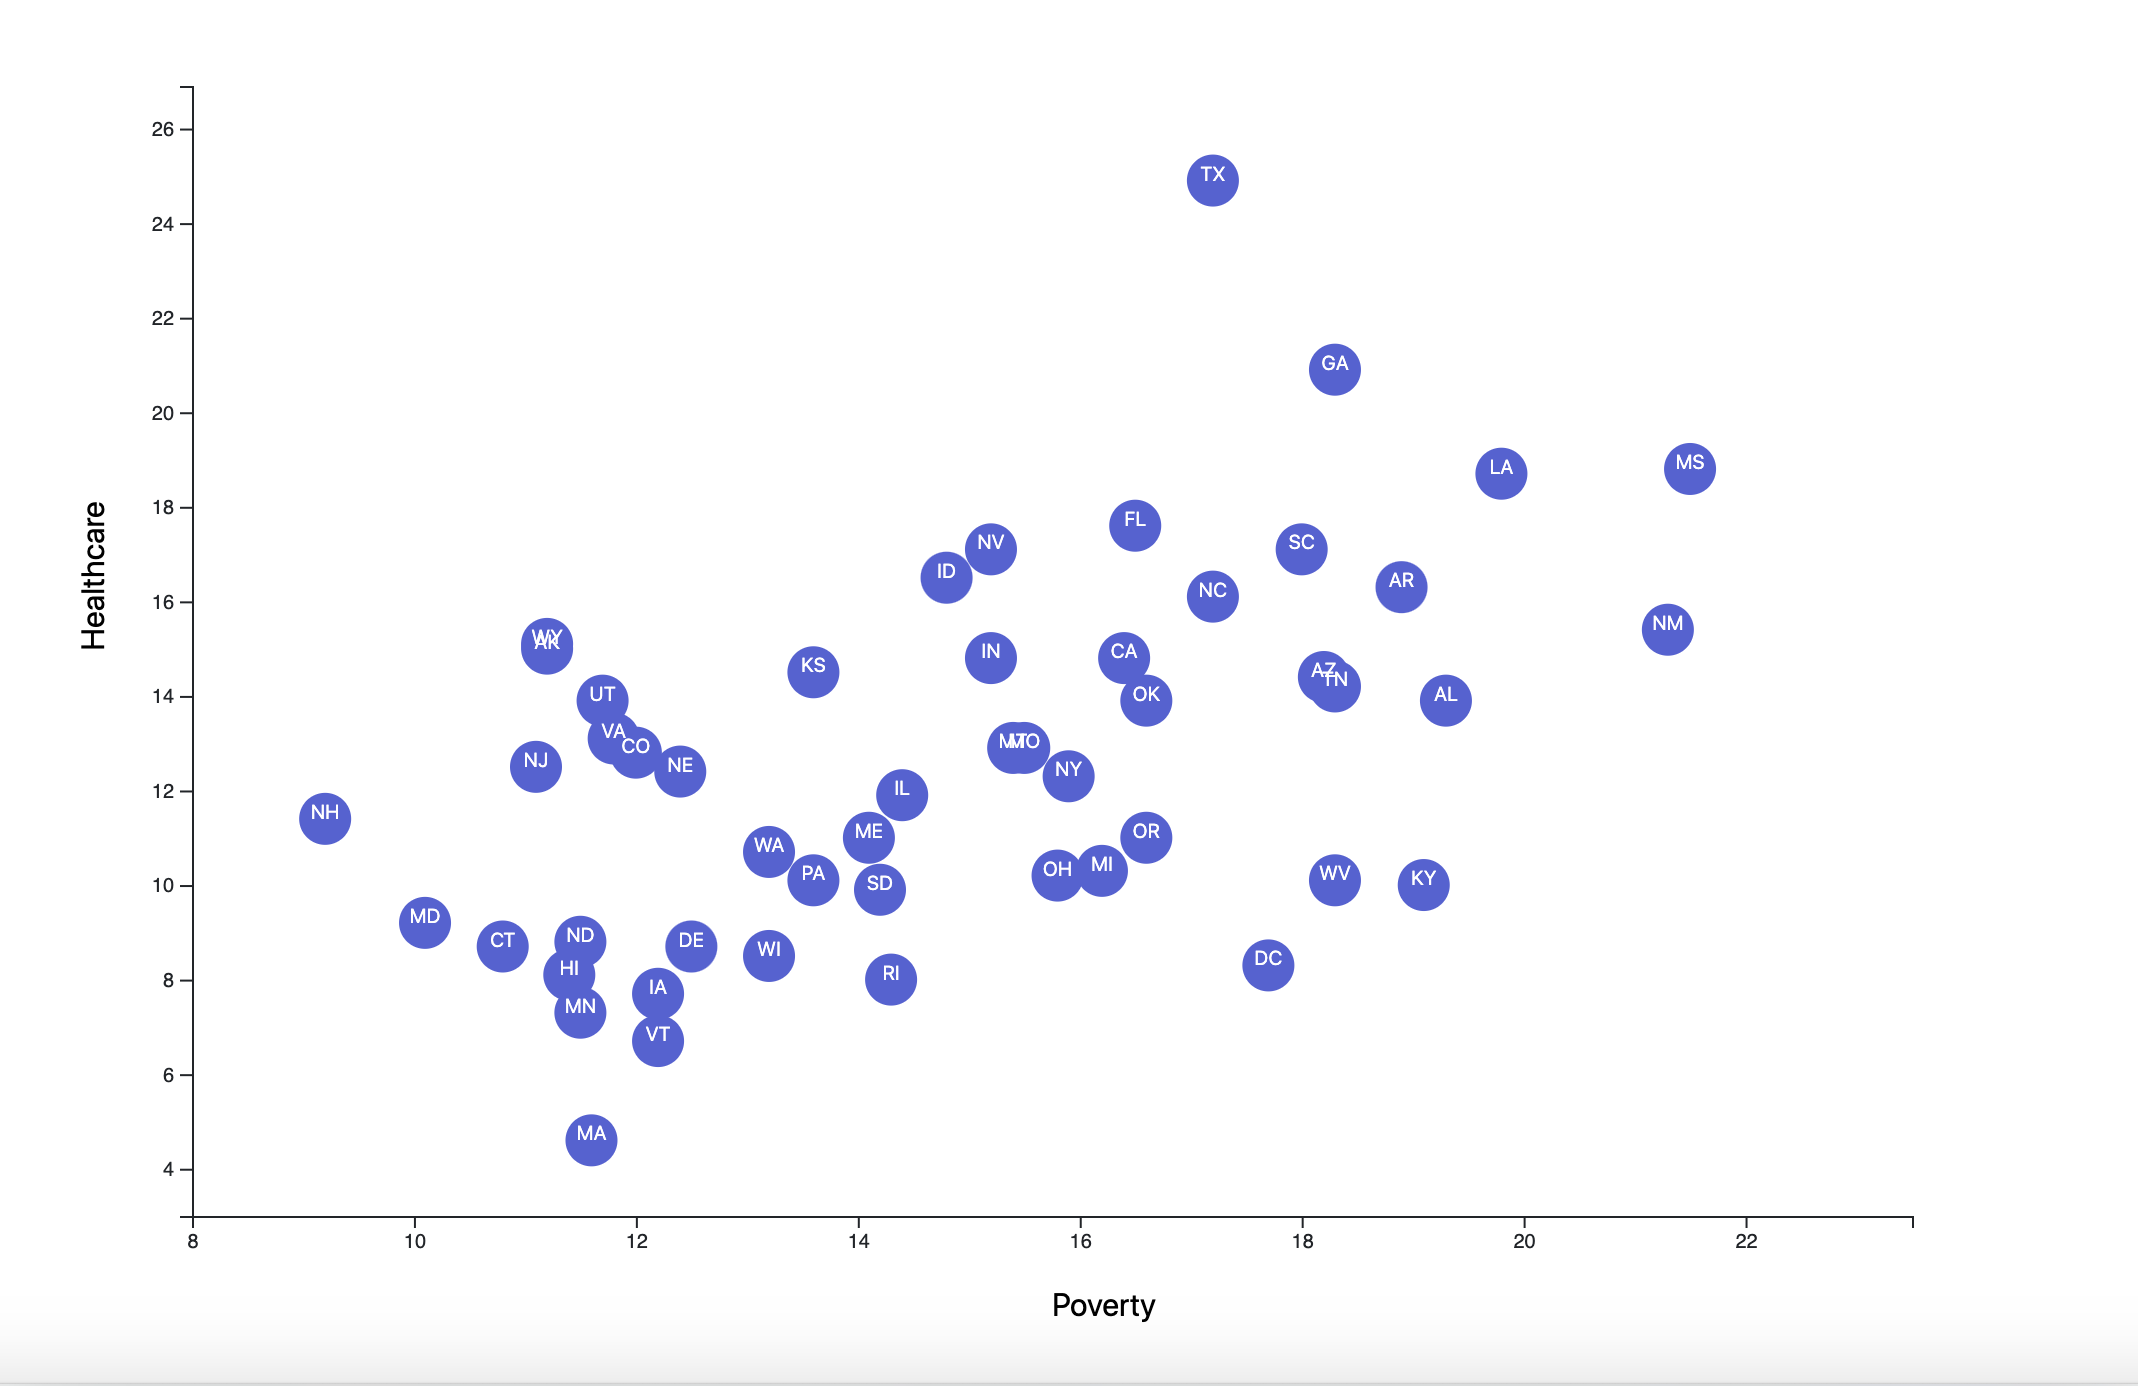
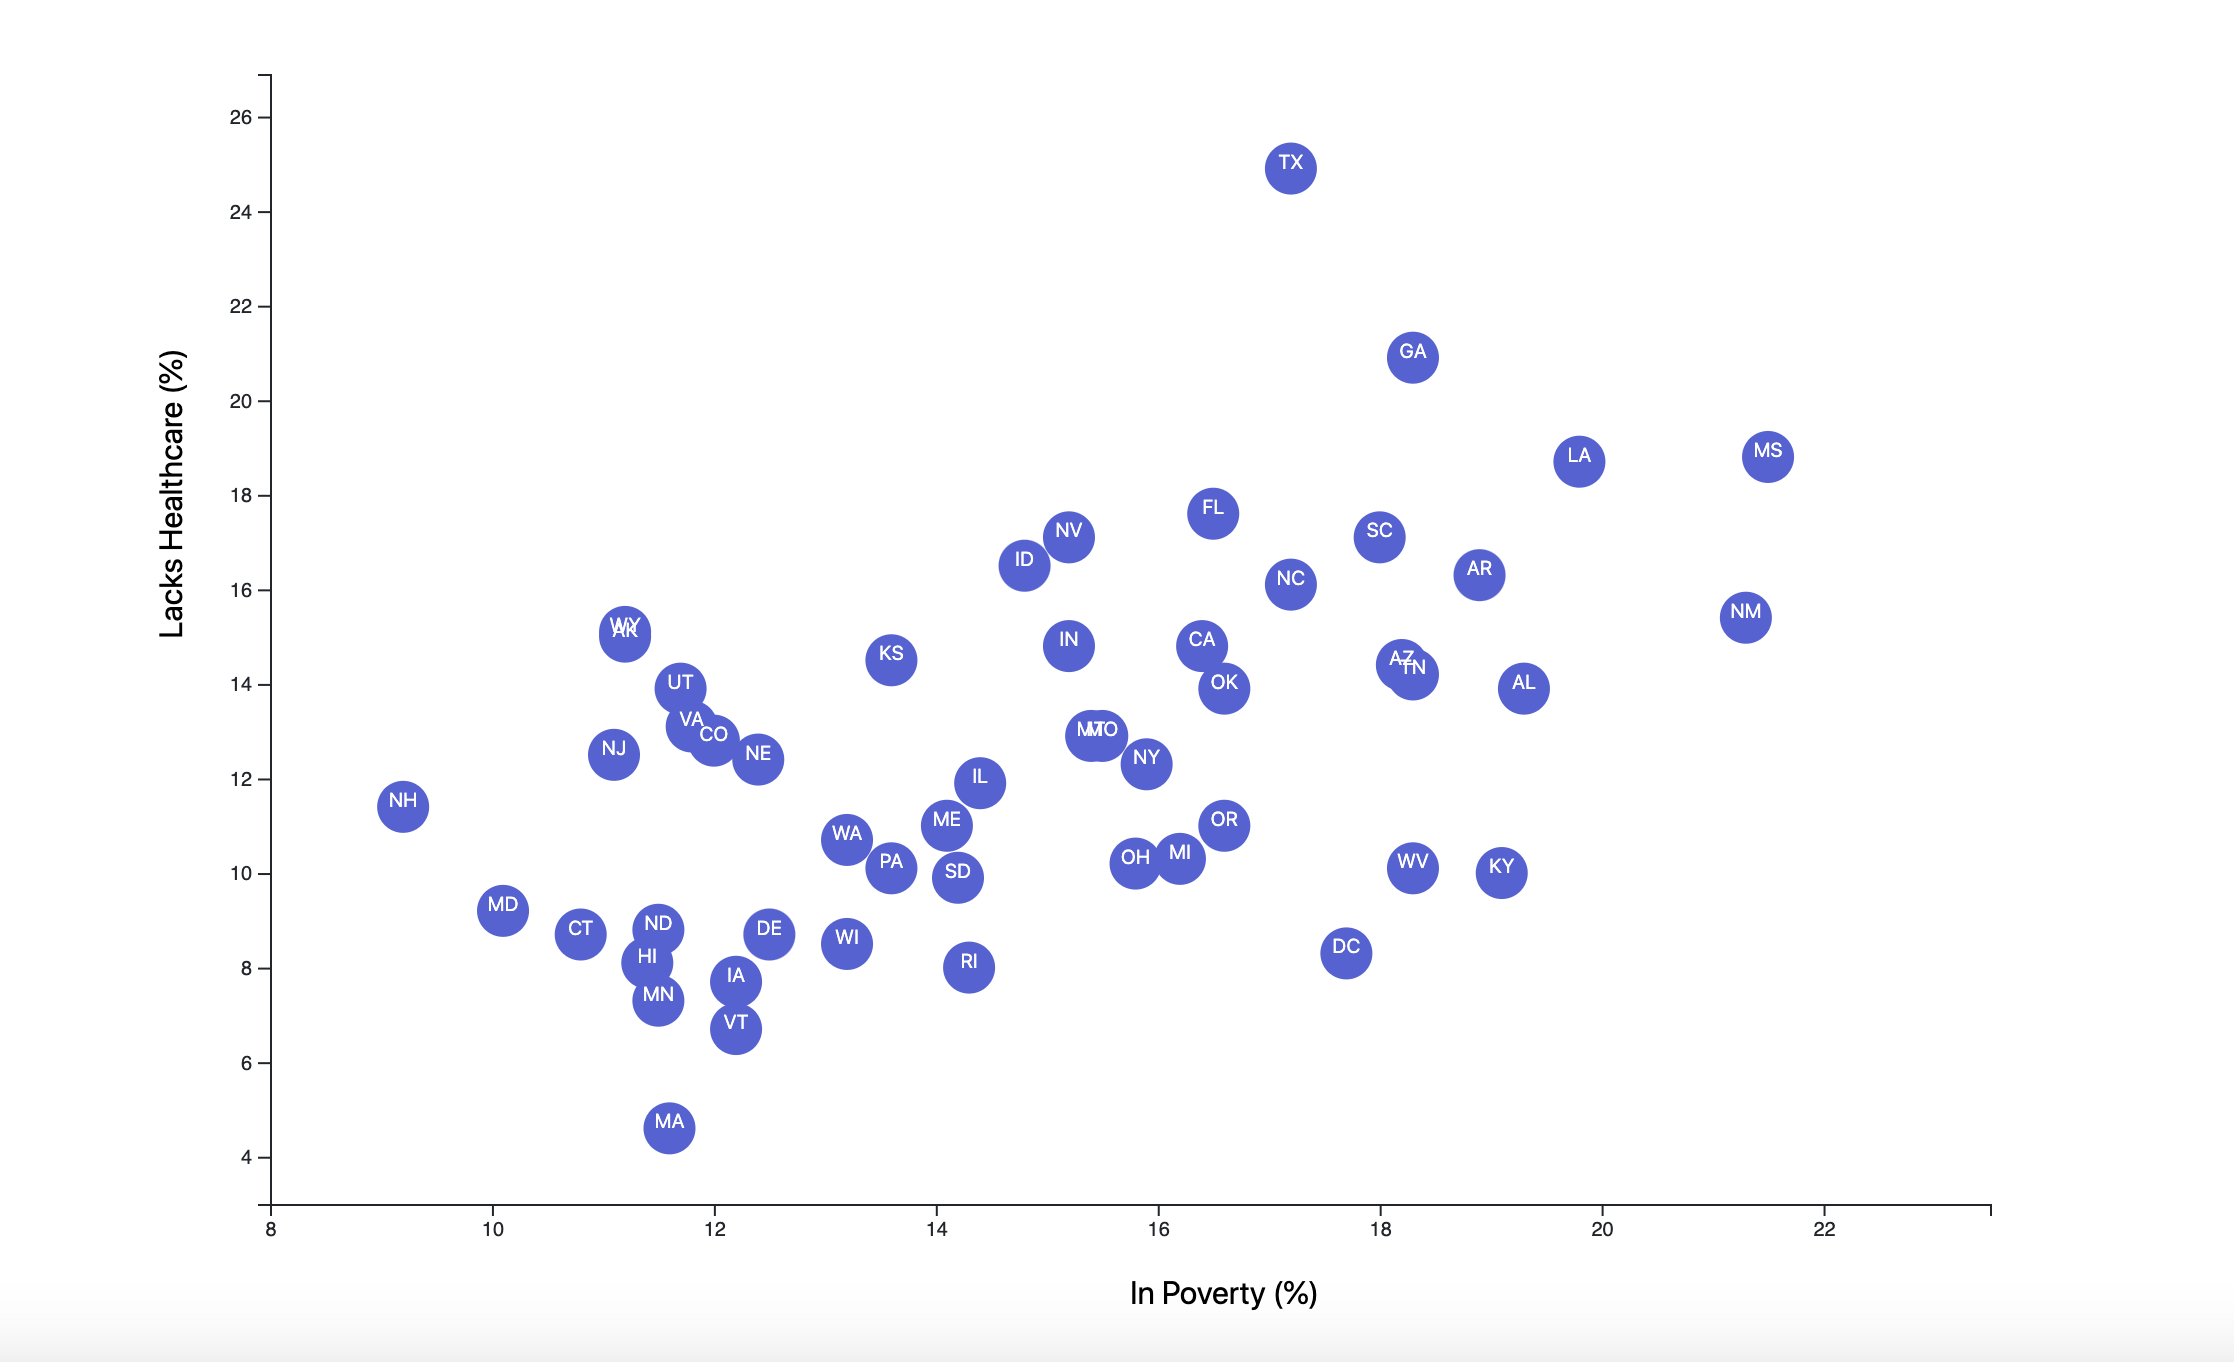
added new image

diff --git a/assets/js/app.js b/assets/js/app.js
@@ -113,14 +113,14 @@ d3.csv("assets/data/data.csv").then(function(stateData){
         .attr("x", 0 - (chartHeight / 2))
         .attr("dy", "1em")
         .attr("class", "axisText")
-        .text("Healthcare");
+        .text("Lacks Healthcare (%)");
 
     //X axis
 
     chartGroup.append("text")
         .attr("transform", `translate(${chartWidth / 2}, ${chartHeight + 5 + chartMargin.top})`)
         .attr("class", "axisText")
-        .text("Poverty");
+        .text("In Poverty (%)");
 
 
 }).catch(function(error) {
